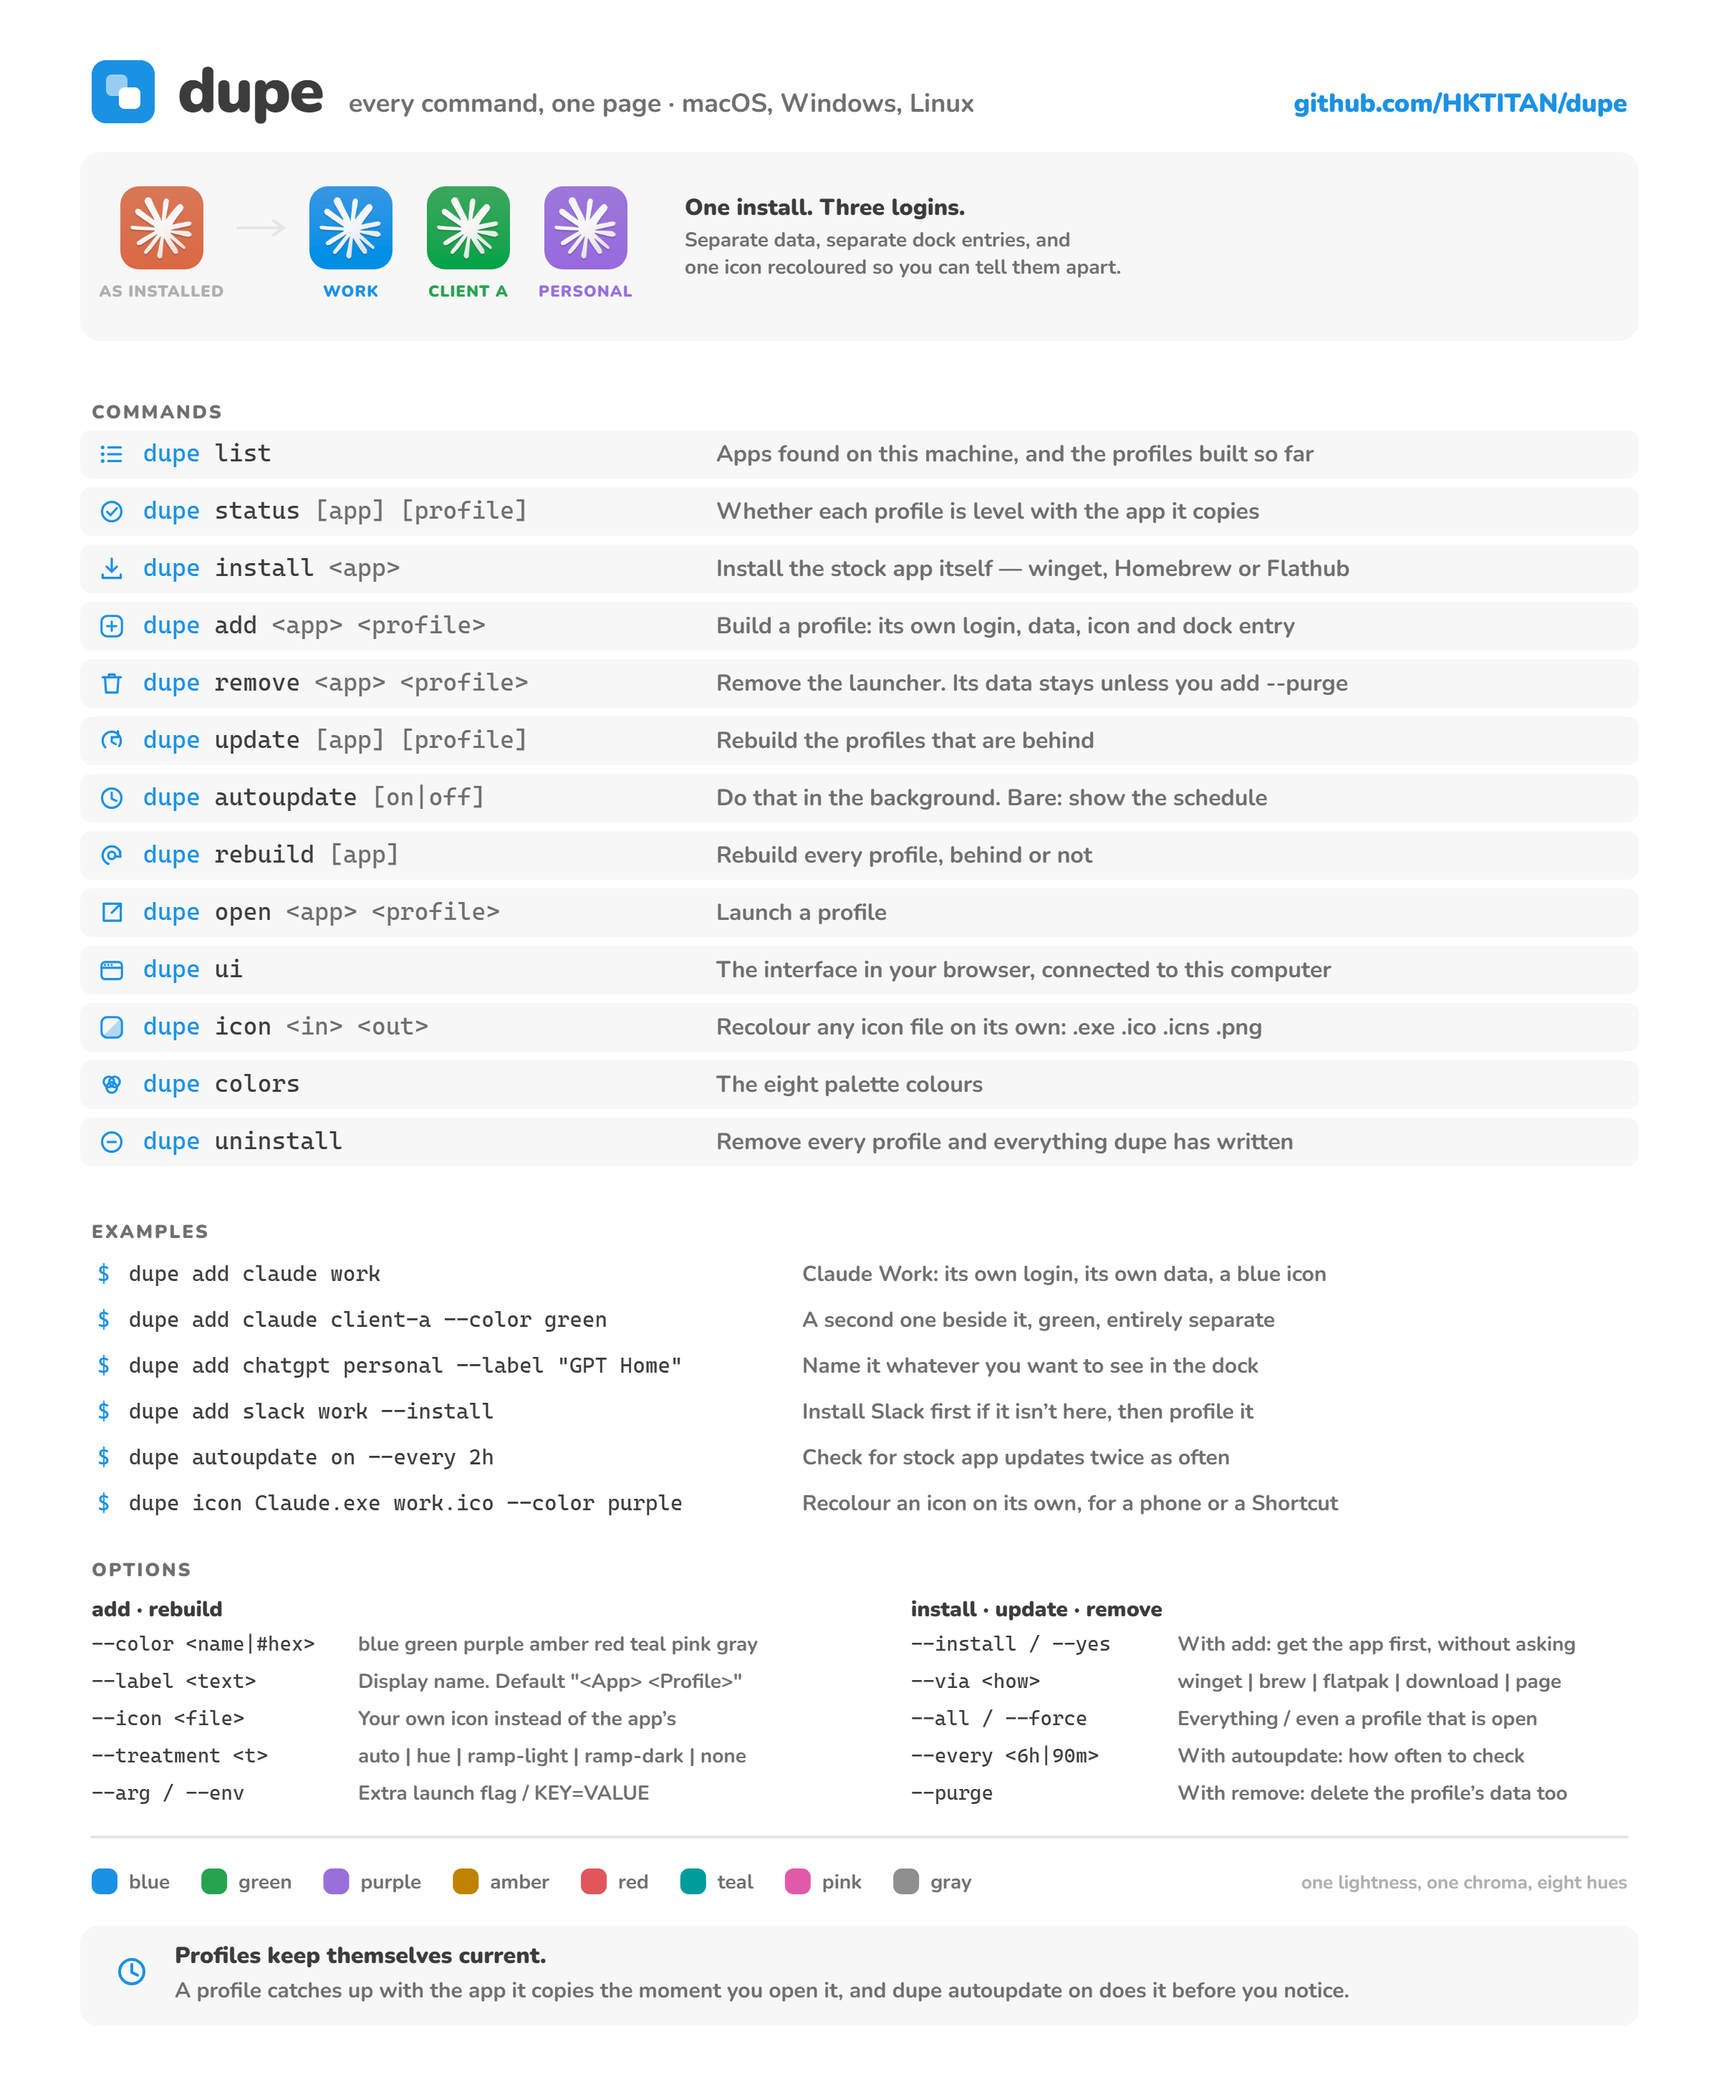
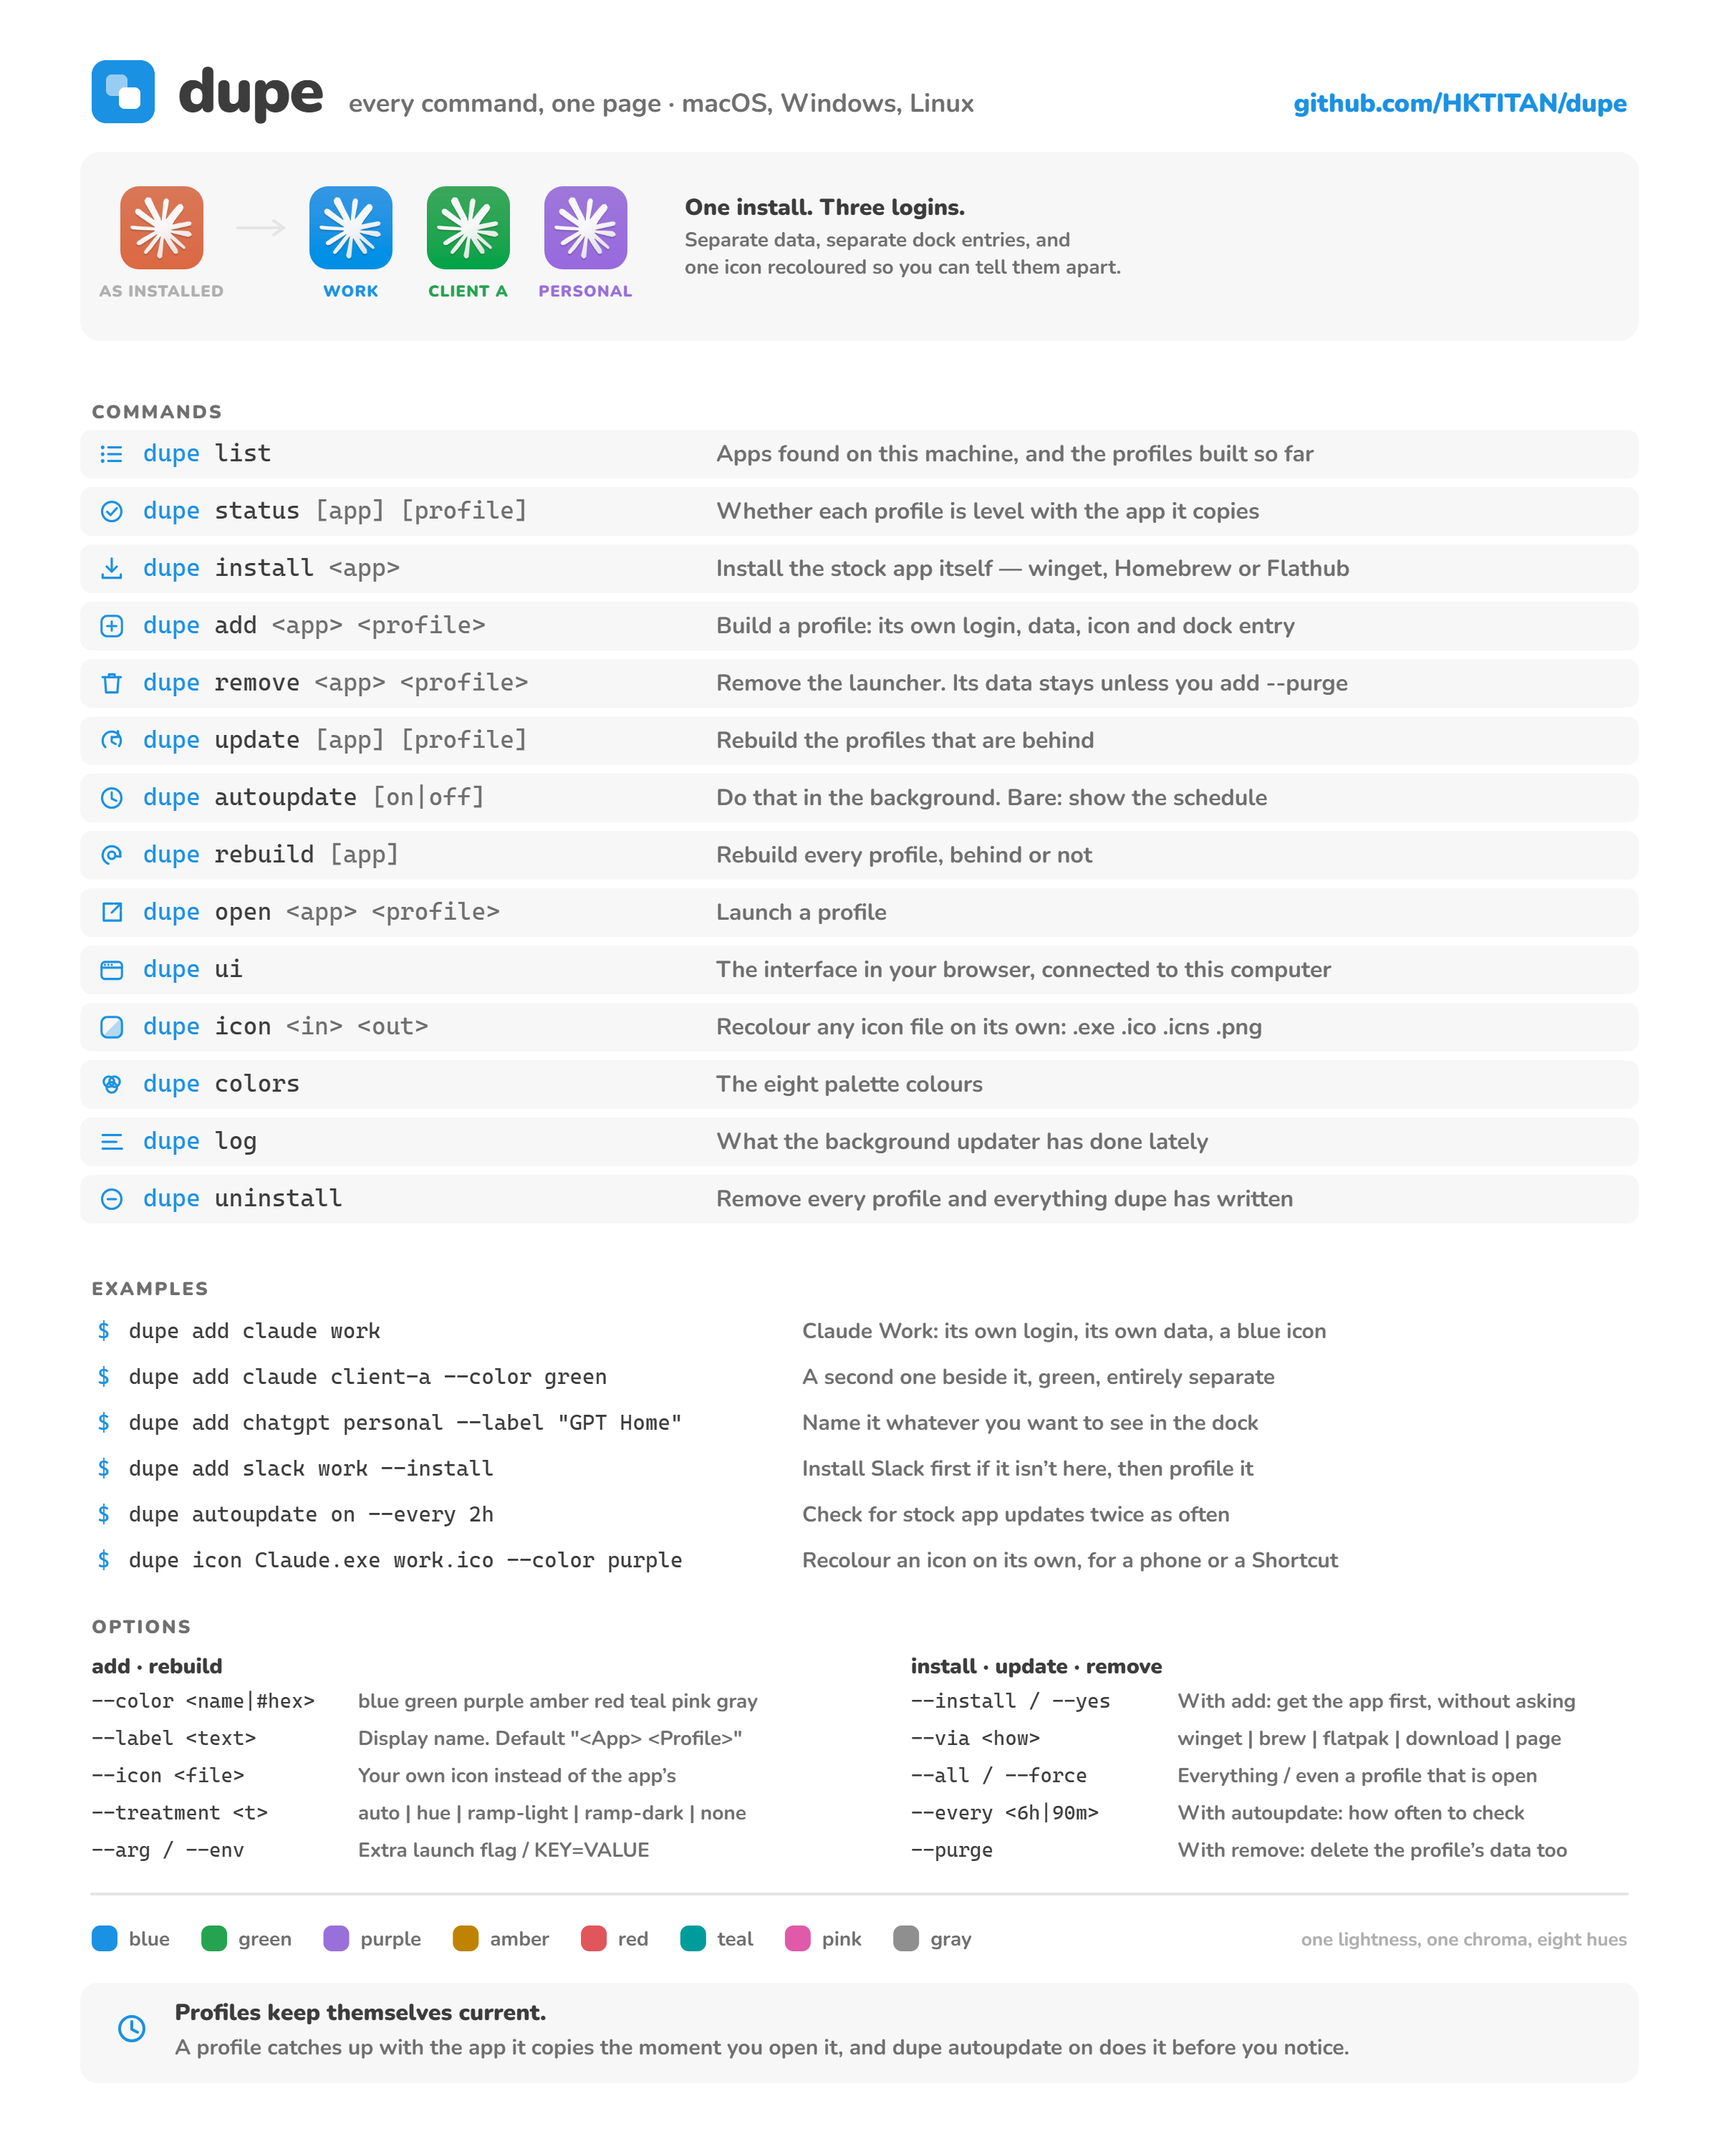
Say what is actually verified now, and stop calling clones frozen
The macOS section still described the old bargain — a frozen snapshot,
rebuilt by hand — which is the thing that changed. It now says what
keeps a clone level, and what CI proves about it: a real profile of
Chrome built and torn down on every push, with the launcher's shell
fingerprint checked character-for-character against the one dupe
recorded.

The preset table gave Chrome the same "not individually tested" caveat
as everything else. It is now the most tested preset there is, on two
operating systems, so it says so.

`dupe log` joins the cheatsheet.

diff --git a/docs/cheatsheet.html b/docs/cheatsheet.html
@@ -9,7 +9,7 @@
 </style>
 <style>
   html, body { margin: 0; background: #f7f7f7; font-family: Nunito, "Segoe UI", system-ui, sans-serif; }
-  canvas { display: block; margin: 24px auto; width: 1200px; height: 1460px; box-shadow: 0 2px 14px rgba(0,0,0,.12); background: #fff; }
+  canvas { display: block; margin: 24px auto; width: 1200px; height: 1500px; box-shadow: 0 2px 14px rgba(0,0,0,.12); background: #fff; }
   #bar { position: fixed; left: 16px; top: 16px; display: flex; gap: 8px; font: 700 14px Nunito, sans-serif; }
   button { font: inherit; padding: 6px 12px; border-radius: 8px; border: 2px solid #e5e5e5; background: #fff; cursor: pointer; }
 </style>
@@ -20,14 +20,14 @@
   <button id="download" type="button">Download</button>
   <span id="msg"></span>
 </div>
-<canvas id="c" width="2400" height="2920"></canvas>
+<canvas id="c" width="2400" height="3000"></canvas>
 <script>
 /* The command cheatsheet in README.md, drawn with the canvas API at 2x.
    Same approach as banner.html: no foreignObject, because Chrome taints a
    canvas drawn from one and then refuses toBlob(). Rendering here rather
    than committing a hand-made image keeps the picture and the CLI in one
    place — when a command changes, this changes with it. */
-const W = 1200, H = 1460;
+const W = 1200, H = 1500;
 const INK = '#3c3c3c', MUTED = '#6f6f6f', FAINT = '#afafaf', LINE = '#e5e5e5', BLUE = '#1b91e3', WASH = '#f7f7f7';
 const MONO = 'ui-monospace, "Cascadia Mono", "SF Mono", Menlo, Consolas, monospace';
 
@@ -44,6 +44,7 @@ const COMMANDS = [
   ['ui', '', 'ui', 'The interface in your browser, connected to this computer'],
   ['icon', '<in> <out>', 'icon', 'Recolour any icon file on its own: .exe .ico .icns .png'],
   ['colors', '', 'colors', 'The eight palette colours'],
+  ['log', '', 'log', 'What the background updater has done lately'],
   ['uninstall', '', 'uninstall', 'Remove every profile and everything dupe has written'],
 ];
 
@@ -144,6 +145,9 @@ function glyph(g, name, x, y, s = 20, color = BLUE) {
       break;
     case 'colors':
       for (const [cx, cy] of [[9.5, 9.5], [14.5, 9.5], [12, 14.5]]) { g.beginPath(); g.arc(cx, cy, 4.6, 0, 7); g.stroke(); }
+      break;
+    case 'log':
+      for (const [yy, x2] of [[6, 20], [12, 16], [18, 21]]) P(() => { g.moveTo(4, yy); g.lineTo(x2, yy); });
       break;
     case 'status':
       P(() => { g.arc(12, 12, 8.5, 0, 7); });

diff --git a/README.md b/README.md
@@ -88,9 +88,10 @@ Every command on one page: [the cheatsheet](docs/cheatsheet.png).
 | `claude` | – | macOS, Windows (Store package) |
 | `chatgpt` | `CODEX_HOME` for the Codex agent | macOS, Windows (Store package) |
 | `grok-bot` | `SAND_DATA_ROOT` for the local-exec daemon | macOS, Windows |
+| `chrome` | – | macOS and Linux, built and torn down in CI on every push |
 | `slack` `discord` `notion` `obsidian` | – | Electron flag, not individually tested |
 | `vscode` `cursor` | `--extensions-dir` | Electron flag, not individually tested |
-| `chrome` `edge` `brave` | – | Chromium flag |
+| `edge` `brave` | – | Chromium flag, same shape as `chrome` |
 
 Profiles are independent of each other and of the stock app. The first profile of an app is blue; each further one takes the next palette colour (green, purple, amber, red, teal, pink, gray) unless you pass `--color`, which also accepts any `#rrggbb`. All eight palette colours sit at the same OKLCH lightness and chroma, so a Dock full of dupes reads as one family that differs only by hue.
 
@@ -111,7 +112,9 @@ The app's own icon is pulled from the binary (`.icns`, PE resources, `.ico` or t
 
 A port of the original script. The stock bundle is APFS-cloned (copy-on-write, so it's nearly free) to `/Applications/<Label>.app`; the real binary is renamed and replaced by a launcher that `exec`s it with `--user-data-dir` and the preset's environment; the `.icns` is replaced; `Info.plist` gets the new display name and a `.<profile>` suffix on the bundle id so macOS treats it as a distinct app; Sparkle/electron-updater are disabled; the bundle is ad-hoc re-signed and its quarantine flag dropped.
 
-Clones are frozen snapshots. After the stock app updates itself, run `dupe rebuild`. Profile data lives in `~/Library/Application Support/dupe/<app>/<profile>`, so rebuilding never touches logins.
+A clone is a copy, so it doesn't inherit the app's own updater — that is switched off deliberately, or two copies would fight over one install. Instead the launcher compares the stock bundle against the fingerprint it was cloned from at every launch, and re-clones first if they differ; see [Staying level with the app](#staying-level-with-the-app). Profile data lives in `~/Library/Application Support/dupe/<app>/<profile>`, so none of that touches a login.
+
+Every push builds a real profile of Chrome on a macOS runner and takes it apart again: the clone, the renamed binary, the generated launcher parsed as bash, the plist edits, and a signature that verifies. It also checks that the fingerprint the launcher computes in shell is character-for-character the one dupe recorded in JavaScript — if those ever disagreed, a clone would rebuild itself on every launch.
 
 ### Windows
 
